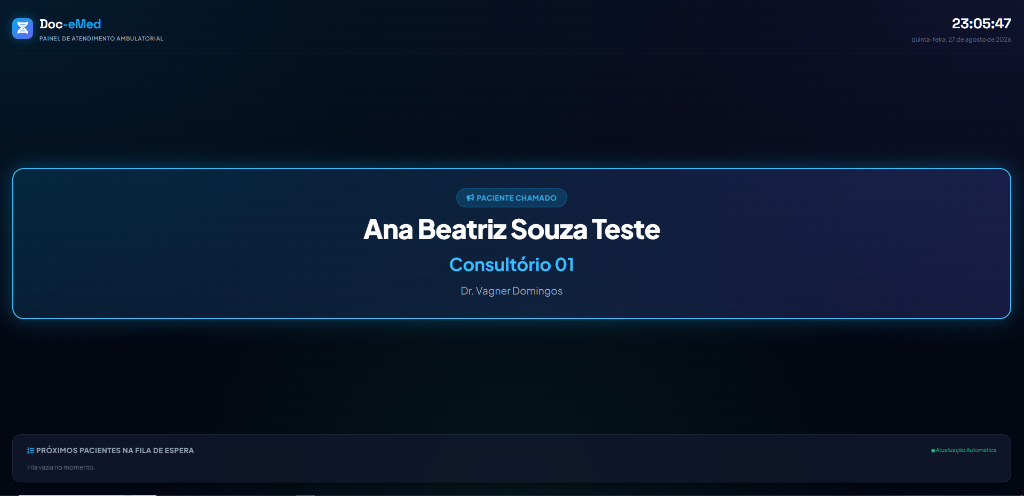
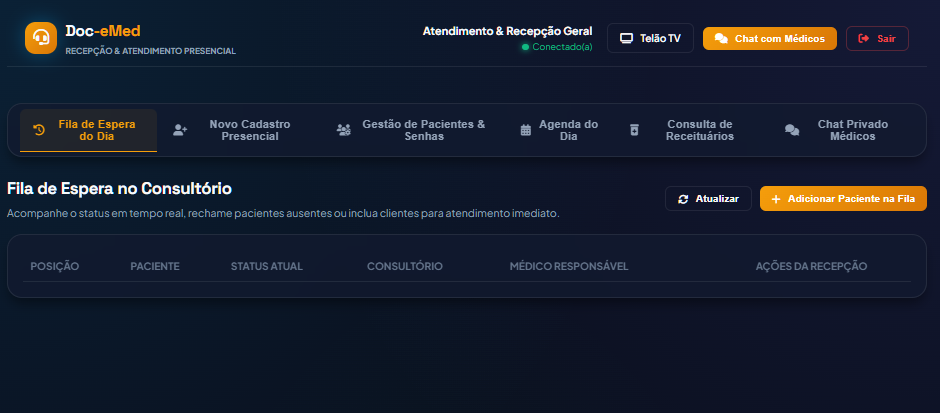
docs: corrige e organiza toda a galeria visual com as 11 interfaces oficiais no README.md

diff --git a/README.md b/README.md
@@ -31,15 +31,18 @@ Plataforma Web Full Stack desenvolvida em **Java 21 LTS** com **Spring Boot 4.1.
 - [🧭 Módulos e Rotas da Aplicação](#-módulos-e-rotas-da-aplicação)
 - [🎧 Módulo Completo de Recepção & Acolhimento Presencial](#-módulo-completo-de-recepção--acolhimento-presencial)
 - [💬 Chat Privado 1-para-1 em Tempo Real (Médicos ↔ Recepção)](#-chat-privado-1-para-1-em-tempo-real-médicos--recepção)
-- [📸 Demonstração Visual das Interfaces (Screenshots Detalhados)](#-demonstração-visual-das-interfaces-screenshots-detalhados)
+- [📸 Galeria Visual das Interfaces (Screenshots Oficiais)](#-galeria-visual-das-interfaces-screenshots-oficiais)
   - [1. Landing Page Oficial](#1--landing-page-oficial)
-  - [2. Módulo de Recepção — Gestão de Fila de Espera](#2--módulo-de-recepção--gestão-de-fila-de-espera)
-  - [3. Módulo de Recepção & Médico — Chat Privado em Tempo Real](#3--módulo-de-recepção--médico--chat-privado-em-tempo-real)
-  - [4. Dashboard Clínico do Médico](#4--dashboard-clínico-do-médico)
-  - [5. Telão da Recepção (TV) — Chamada Ambulatorial em Tela Cheia](#5--telão-da-recepção-tv--chamada-ambulatorial-em-tela-cheia)
-  - [6. Portal do Paciente com Fila Integrada](#6--portal-do-paciente-com-fila-integrada)
-  - [7. Área Médica — Autenticação Restrita](#7--área-médica--autenticação-restrita)
-  - [8. Cadastro Completo de Paciente Real (Prontuário Oficial)](#8--cadastro-completo-de-paciente-real-prontuário-oficial)
+  - [2. Módulo de Recepção — Fila de Espera no Consultório](#2--módulo-de-recepção--fila-de-espera-no-consultório)
+  - [3. Módulo de Recepção — Chat Privado com Médicos](#3--módulo-de-recepção--chat-privado-com-médicos)
+  - [4. Portal do Médico — Modal de Chat com Recepção](#4--portal-do-médico--modal-de-chat-com-recepção)
+  - [5. Dashboard Clínico do Médico](#5--dashboard-clínico-do-médico)
+  - [6. Telão da Recepção (TV) — Chamada em Tela Cheia](#6--telão-da-recepção-tv--chamada-em-tela-cheia)
+  - [7. Portal do Paciente com Fila Integrada](#7--portal-do-paciente-com-fila-integrada)
+  - [8. Área Médica — Autenticação Segura](#8--área-médica--autenticação-segura)
+  - [9. Cadastro de Paciente Real — Prontuário Oficial](#9--cadastro-de-paciente-real--prontuário-oficial)
+  - [10. Portal do Paciente — Cadastro Rápido (Modo Teste)](#10--portal-do-paciente--cadastro-rápido-modo-teste)
+  - [11. Portal do Paciente — Login (Modo Teste)](#11--portal-do-paciente--login-modo-teste)
 - [🔐 Credenciais de Acesso & Perfis Oficiais](#-credenciais-de-acesso--perfis-oficiais)
 - [📋 Estrutura da Ficha de Avaliação Capilar (144 Perguntas)](#-estrutura-da-ficha-de-avaliação-capilar-144-perguntas)
 - [🏗 Arquitetura Técnica & Tecnologias](#-arquitetura-técnica--tecnologias)
@@ -117,14 +120,14 @@ Desenvolvido para atender pacientes que comparecem diretamente à clínica físi
 Sistema de comunicação interna seguro, ágil e confidencial entre recepcionistas e médicos:
 - **Conversas Individuais e Privadas:** Selecione qualquer médico ou atendente conectado para iniciar uma conversa direta.
 - **Status Online em Tempo Real:** Indicador visual (verde = online / cinza = visto recentemente) atualizado via heartbeat automático.
-- **Sincronização Dupla (SSE + Fallback 2,5s):** Entrega instantânea de mensagens com barramento de eventos SSE e keepalive a cada 15s, além de sincronização contínua de polling a cada 2,5s para garantir zero perda de mensagens mesmo em caso de oscilação de rede.
+- **Sincronização Dupla (SSE + Fallback 2,5s):** Entrega instantânea de mensagens com barramento de eventos SSE e keepalive a cada 15s, além de sincronização contínua de polling a cada 2,5s para garantir zero perda de mensagens.
 - **Alertas Sonoros & Badges:** Notificação com sinal sonoro hospitalar agradável e contador de mensagens não lidas no topo da página.
 
 ---
 
-## 📸 Demonstração Visual das Interfaces (Screenshots Detalhados)
+## 📸 Galeria Visual das Interfaces (Screenshots Oficiais)
 
-Abaixo são demonstradas as principais telas da aplicação:
+Abaixo são demonstradas todas as telas da aplicação, devidamente identificadas:
 
 ---
 
@@ -141,7 +144,7 @@ Abaixo são demonstradas as principais telas da aplicação:
 
 ---
 
-### 2. 🎧 Módulo de Recepção — Gestão de Fila de Espera
+### 2. 🎧 Módulo de Recepção — Fila de Espera no Consultório
 > **Arquivo:** `docs/images/08-recepcao-portal-fila.png`
 
 <div align="center">
@@ -154,20 +157,32 @@ Abaixo são demonstradas as principais telas da aplicação:
 
 ---
 
-### 3. 💬 Módulo de Recepção & Médico — Chat Privado em Tempo Real
+### 3. 💬 Módulo de Recepção — Chat Privado com Médicos
 > **Arquivo:** `docs/images/09-recepcao-chat-tempo-real.png`
 
 <div align="center">
-  <img src="./docs/images/09-recepcao-chat-tempo-real.png" alt="Chat Privado em Tempo Real Recepção e Médico" width="95%">
+  <img src="./docs/images/09-recepcao-chat-tempo-real.png" alt="Chat Privado na Recepção" width="95%">
 </div>
 
-* **Lista Lateral de Contatos:** Exibe médicos e recepcionistas com foto, status online e consultório.
+* **Lista Lateral de Contatos:** Exibe médicos e recepcionistas com status online e consultório.
 * **Janela de Mensagens Privadas:** Histórico cronológico bidirecional com balões diferenciados (laranja para recepção, azul para médico).
-* **Campo de Envio Ágil:** Envio com Enter ou clique no botão de aviãozinho com foco automático.
+* **Campo de Envio Ágil:** Envio com Enter ou clique no botão de envio com foco automático.
 
 ---
 
-### 4. 🩺 Dashboard Clínico do Médico
+### 4. 🩺 Portal do Médico — Modal de Chat com Recepção
+> **Arquivo:** `docs/images/10-medico-chat-modal.png`
+
+<div align="center">
+  <img src="./docs/images/10-medico-chat-modal.png" alt="Modal de Chat no Portal do Médico" width="85%">
+</div>
+
+* **Modal Integrado:** Aberto diretamente do painel do médico sem sair da tela de atendimento.
+* **Sincronização em Tempo Real:** Conversação direta com a recepção em tempo real com auto-seleção do contato.
+
+---
+
+### 5. 🩺 Dashboard Clínico do Médico
 > **Arquivo:** `docs/images/06-medico-dashboard-clinico.png`
 
 <div align="center">
@@ -180,7 +195,7 @@ Abaixo são demonstradas as principais telas da aplicação:
 
 ---
 
-### 5. 📺 Telão da Recepção (TV) — Chamada Ambulatorial em Tela Cheia
+### 6. 📺 Telão da Recepção (TV) — Chamada em Tela Cheia
 > **Arquivo:** `docs/images/07-telao-recepcao-tv.png`
 
 <div align="center">
@@ -193,30 +208,59 @@ Abaixo são demonstradas as principais telas da aplicação:
 
 ---
 
-### 6. 📱 Portal do Paciente com Fila Integrada
+### 7. 📱 Portal do Paciente com Fila Integrada
 > **Arquivo:** `docs/images/01-paciente-portal-fila-integrada.png`
 
 <div align="center">
   <img src="./docs/images/01-paciente-portal-fila-integrada.png" alt="Portal do Paciente com Fila Integrada" width="95%">
 </div>
 
+* **Telão da Recepção Embutido:** O paciente acompanha sua posição na fila e a chamada do consultório diretamente pelo celular.
+* **Passo 1 & 2:** Anamnese prévia e agendamento interativo com médico especialista.
+
 ---
 
-### 7. 🔒 Área Médica — Autenticação Restrita
+### 8. 🔒 Área Médica — Autenticação Segura
 > **Arquivo:** `docs/images/02-medico-login-restrito.png`
 
 <div align="center">
   <img src="./docs/images/02-medico-login-restrito.png" alt="Área Médica - Login Seguro" width="65%">
 </div>
 
+* **Acesso Restrito:** Autenticação exclusiva para o corpo clínico e gestores autorizados.
+
 ---
 
-### 8. 📝 Cadastro Completo de Paciente Real (Prontuário Oficial)
+### 9. 📝 Cadastro de Paciente Real — Prontuário Oficial
 > **Arquivo:** `docs/images/05-paciente-cadastro-real-completo.png`
 
 <div align="center">
   <img src="./docs/images/05-paciente-cadastro-real-completo.png" alt="Cadastro Completo de Paciente Real" width="65%">
 </div>
+
+* **Formulário Completo de 4 Etapas:** Dados Pessoais, Contato & Emergência, Endereço Residencial e Credenciais de Acesso.
+
+---
+
+### 10. 🧪 Portal do Paciente — Cadastro Rápido (Modo Teste)
+> **Arquivo:** `docs/images/03-paciente-cadastro-teste.png`
+
+<div align="center">
+  <img src="./docs/images/03-paciente-cadastro-teste.png" alt="Cadastro de Paciente Teste" width="65%">
+</div>
+
+* **Onboarding Rápido:** Cadastro em etapa única para testes e demonstrações rápidas.
+
+---
+
+### 11. 🔑 Portal do Paciente — Login (Modo Teste)
+> **Arquivo:** `docs/images/04-paciente-login-teste.png`
+
+<div align="center">
+  <img src="./docs/images/04-paciente-login-teste.png" alt="Login do Paciente Teste" width="65%">
+</div>
+
+* **Retorno Ágil:** Permite ao paciente de teste entrar no portal para acompanhar suas chamadas.
 
 ---
 
